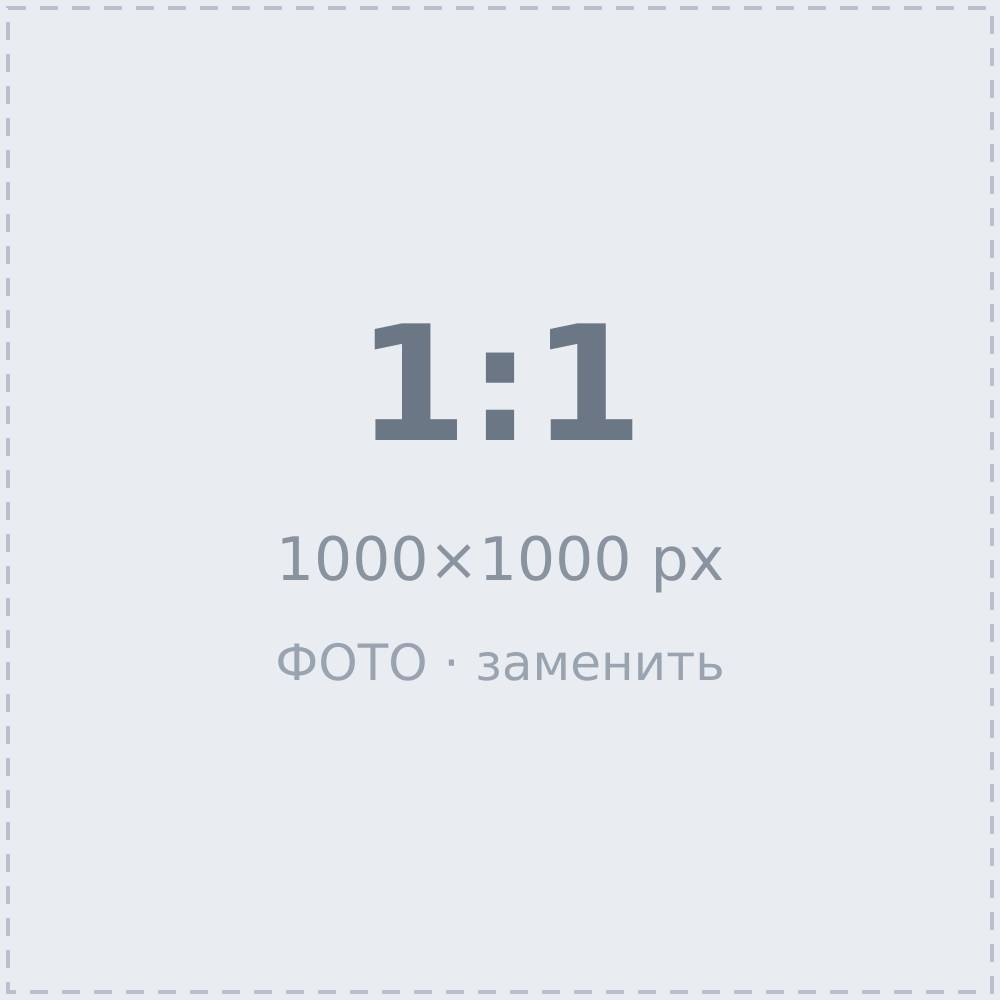
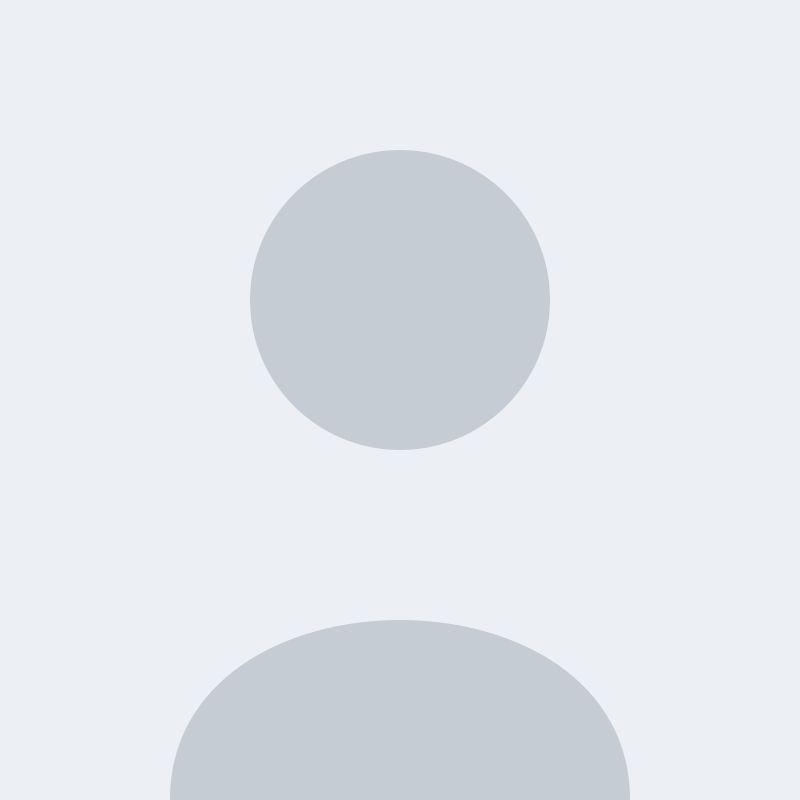
feat: имена команды, серые плейсхолдеры-аватары, координаты Google-карты
- Команда («О компании»): подставлены имена — Алина (отдел логистики),
  Георгий (отдел закупок), Дмитрий (менеджер), Мария (бухгалтерия),
  Юрий (таможенный брокер); руководитель — Евгений Фотин.
- Плейсхолдеры фото сотрудников заменены на серый силуэт человека (как просили):
  o-kompanii-komanda-1..6 + оба фото руководителя (o-kompanii/logistika-rukovoditel).
- Google-карта: обновлены координаты офиса на 23.005932295280612,113.34675192492686.

Claude-Session: https://claude.ai/code/session_011EUyKwFwfu2gvU8BLGcdCC

diff --git a/src/_data/i18n/ru.ts b/src/_data/i18n/ru.ts
@@ -866,22 +866,22 @@ const ru: Dictionary = {
       members: [
         { name: "Евгений Фотин", role: "Руководитель", photoAlt: "Фото руководителя" },
         {
-          name: "[Имя]",
+          name: "Алина",
           role: "Отдел логистики",
           photoAlt: "Фото сотрудника отдела логистики",
         },
         {
-          name: "[Имя]",
+          name: "Георгий",
           role: "Отдел закупок",
           photoAlt: "Фото сотрудника отдела закупок",
         },
-        { name: "[Имя]", role: "Менеджер", photoAlt: "Фото менеджера" },
+        { name: "Дмитрий", role: "Менеджер", photoAlt: "Фото менеджера" },
         {
-          name: "[Имя]",
+          name: "Юрий",
           role: "Таможенный брокер",
           photoAlt: "Фото таможенного брокера",
         },
-        { name: "[Имя]", role: "Бухгалтерия", photoAlt: "Фото бухгалтера" },
+        { name: "Мария", role: "Бухгалтерия", photoAlt: "Фото бухгалтера" },
       ],
       prevLabel: "Предыдущие сотрудники",
       nextLabel: "Следующие сотрудники",

diff --git a/src/_data/site.ts b/src/_data/site.ts
@@ -37,7 +37,7 @@ const site: SiteConfig = {
   // &output=embed допускает встраивание в iframe (современный www.google.com/maps
   // фреймить запрещает).
   mapEmbedSrc:
-    "https://maps.google.com/maps?q=23.008292748304704,113.34079742431642&z=17&hl=ru&output=embed",
+    "https://maps.google.com/maps?q=23.005932295280612,113.34675192492686&z=17&hl=ru&output=embed",
   inn: "5024256988",
   kpp: "502401001",
   ogrn: "1255000095778",
